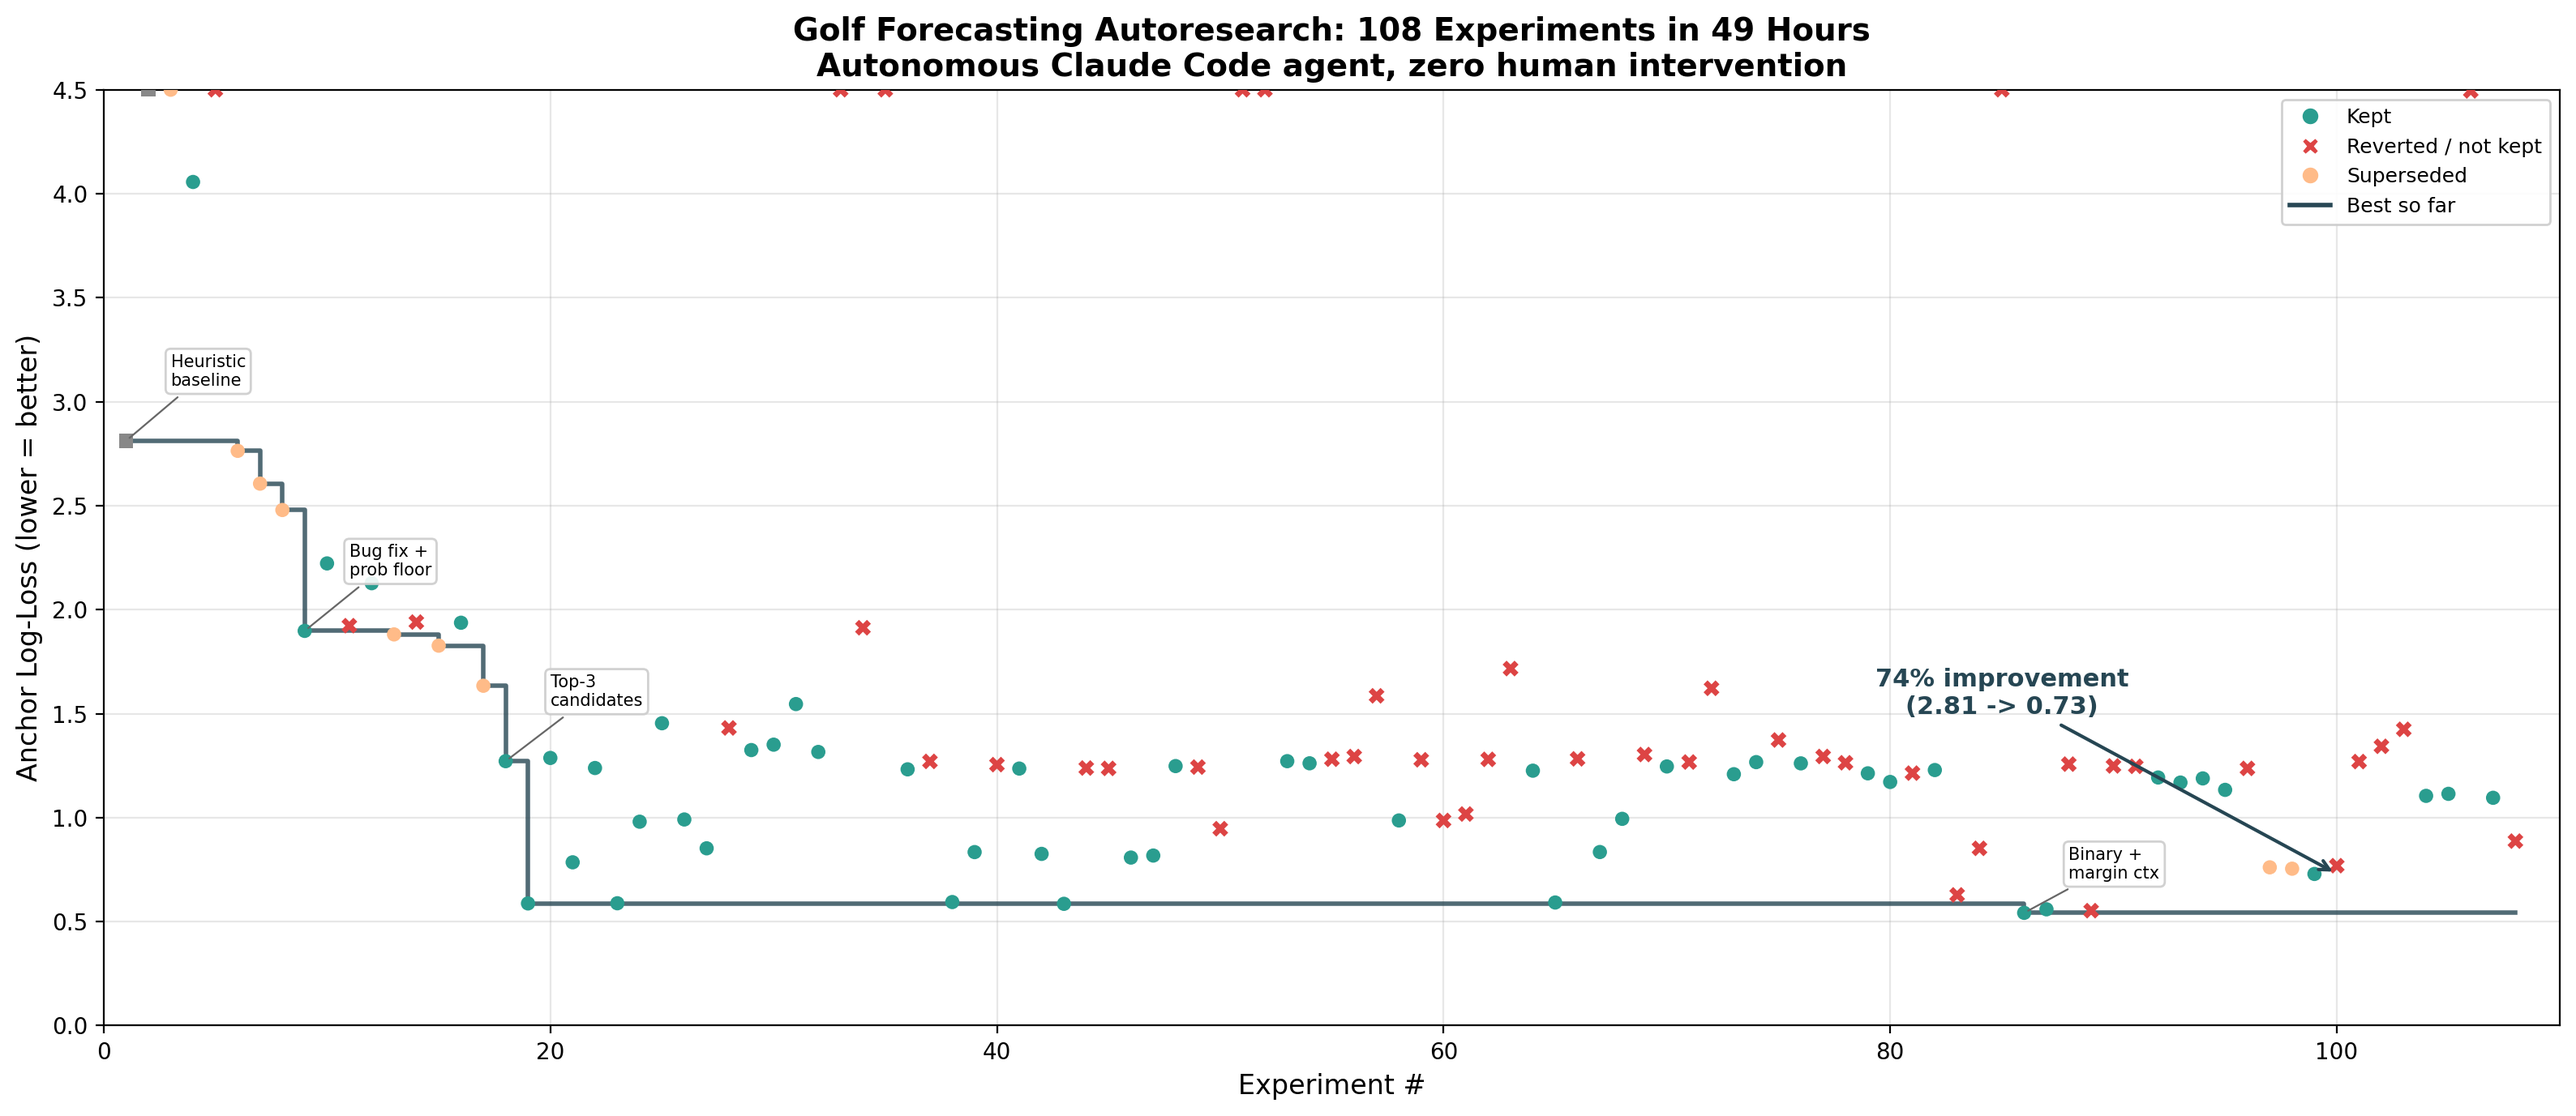
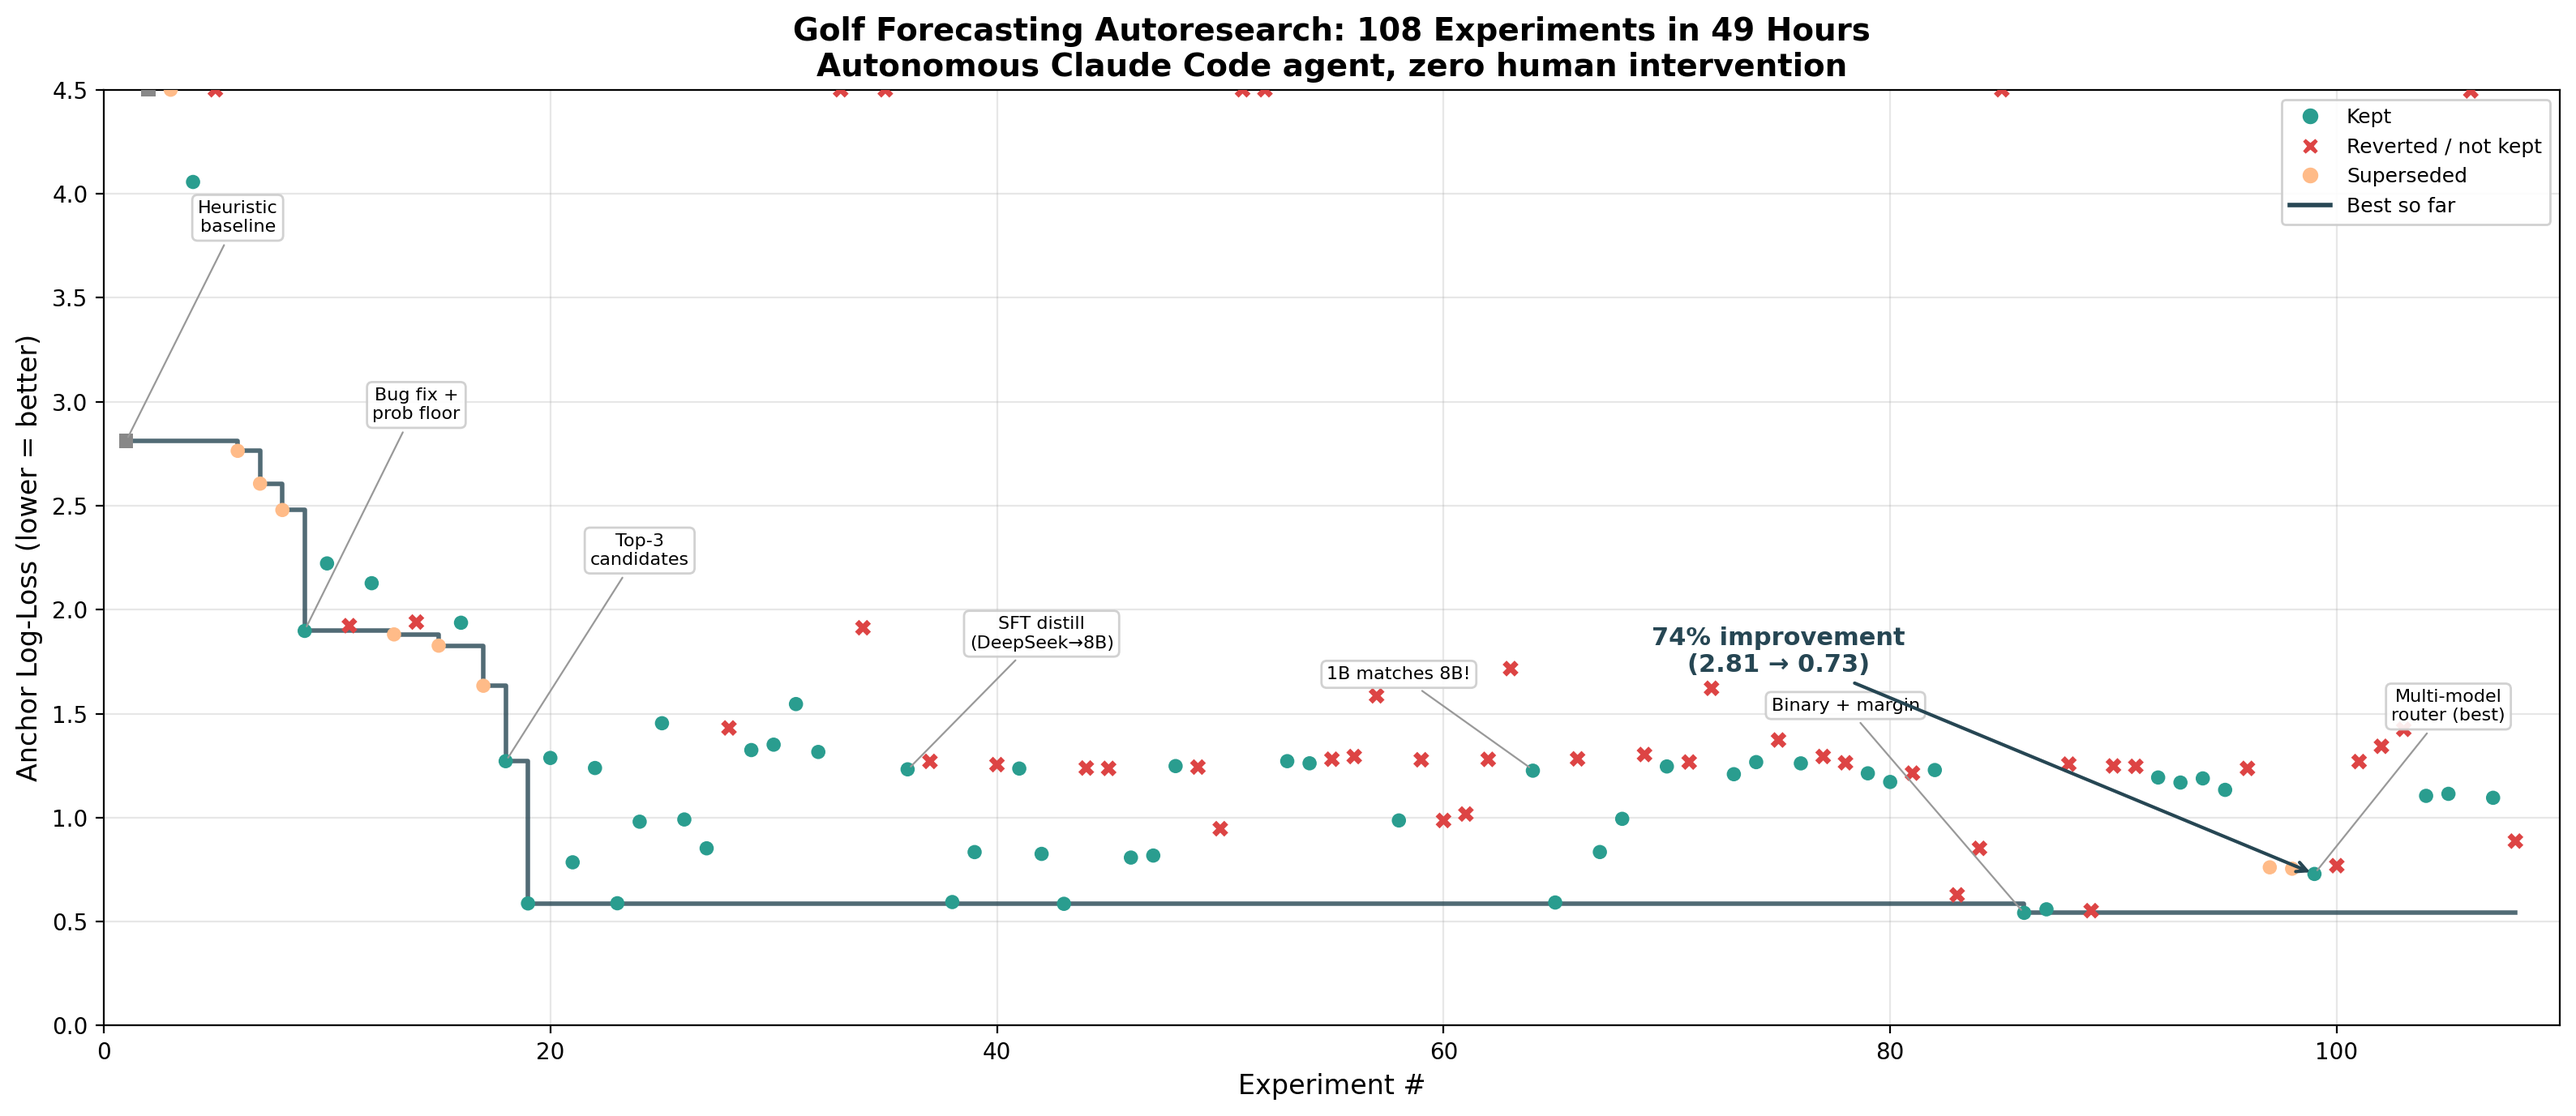
Fix experiment progress chart: arrow targets correct point, clean labels
- 74% improvement arrow now points at exp92 (green dot) not a red X
- Milestone labels manually positioned along descending line to avoid overlap
- All labels readable and within chart bounds

https://claude.ai/code/session_01U6Ahk9TRaAWpTfUE1JFNad

diff --git a/tinker_cookbook/recipes/golf_forecasting/plot_experiment_progress.py b/tinker_cookbook/recipes/golf_forecasting/plot_experiment_progress.py
@@ -42,13 +42,13 @@ def plot_progress_chart(experiments, output_path):
     best_xs, best_ys = [], []
     best_so_far = float("inf")
 
-    milestone_annotations = []
+    # Track the index of key milestones for annotation placement
+    best_exp_x, best_exp_y = None, None
 
     for i, e in enumerate(experiments):
         if e["anchor_ll"] is None:
             continue
         ll = e["anchor_ll"]
-        # Cap display at 4.0 for readability
         display_ll = min(ll, 4.5)
         xs.append(i + 1)
         ys.append(display_ll)
@@ -70,27 +70,9 @@ def plot_progress_chart(experiments, output_path):
             best_so_far = ll
             best_xs.append(i + 1)
             best_ys.append(ll)
-            # Mark key milestones
-            name = e["name"]
-            if name in (
-                "baseline-heuristic",
-                "exp7-bugfix-floor",
-                "exp16-top3",
-                "exp30-sft-distill",
-                "exp58-1b-sft",
-                "exp79-binary-margin",
-                "exp92-multi-model",
-            ):
-                short = {
-                    "baseline-heuristic": "Heuristic\nbaseline",
-                    "exp7-bugfix-floor": "Bug fix +\nprob floor",
-                    "exp16-top3": "Top-3\ncandidates",
-                    "exp30-sft-distill": "SFT distill\n(DeepSeek->8B)",
-                    "exp58-1b-sft": "1B matches 8B!",
-                    "exp79-binary-margin": "Binary +\nmargin ctx",
-                    "exp92-multi-model": "Multi-model\nrouter (BEST)",
-                }.get(name, name)
-                milestone_annotations.append((i + 1, ll, short))
+
+        if e["name"] == "exp92-multi-model":
+            best_exp_x, best_exp_y = i + 1, ll
 
     # Plot all experiments as scatter
     for x, y, c, m in zip(xs, ys, colors, markers):
@@ -106,22 +88,31 @@ def plot_progress_chart(experiments, output_path):
                 step_ys.append(best_ys[j - 1])
             step_xs.append(best_xs[j])
             step_ys.append(best_ys[j])
-        # Extend to end
         step_xs.append(xs[-1])
         step_ys.append(best_ys[-1])
         ax.plot(step_xs, step_ys, color="#264653", linewidth=2, alpha=0.8, label="Best so far")
 
-    # Annotate milestones
-    for mx, my, label in milestone_annotations:
-        y_offset = 0.25 if my > 1.0 else 0.15
+    # Manually place milestone annotations to avoid overlap
+    # Format: (exp_x, exp_y, label, text_x, text_y) -- text positions are absolute
+    milestones = [
+        (1, 2.81, "Heuristic\nbaseline", 6, 3.8),
+        (9, 1.90, "Bug fix +\nprob floor", 14, 2.9),
+        (18, 1.27, "Top-3\ncandidates", 24, 2.2),
+        (36, 1.23, "SFT distill\n(DeepSeek\u21928B)", 42, 1.8),
+        (64, 1.23, "1B matches 8B!", 58, 1.65),
+        (86, 0.54, "Binary + margin", 78, 1.5),
+        (99, 0.73, "Multi-model\nrouter (best)", 105, 1.45),
+    ]
+
+    for mx, my, label, tx, ty in milestones:
         ax.annotate(
             label,
             xy=(mx, my),
-            xytext=(mx + 2, my + y_offset),
-            fontsize=7.5,
-            ha="left",
+            xytext=(tx, ty),
+            fontsize=8,
+            ha="center",
             va="bottom",
-            arrowprops=dict(arrowstyle="-", color="#666", lw=0.8),
+            arrowprops=dict(arrowstyle="-", color="#999", lw=0.8),
             bbox=dict(boxstyle="round,pad=0.3", facecolor="white", edgecolor="#ccc", alpha=0.9),
         )
 
@@ -149,17 +140,18 @@ def plot_progress_chart(experiments, output_path):
     ax.yaxis.set_major_locator(ticker.MultipleLocator(0.5))
     ax.grid(True, alpha=0.3)
 
-    # Add improvement annotation
-    ax.annotate(
-        "74% improvement\n(2.81 -> 0.73)",
-        xy=(100, 0.73),
-        xytext=(85, 1.5),
-        fontsize=11,
-        fontweight="bold",
-        color="#264653",
-        ha="center",
-        arrowprops=dict(arrowstyle="->", color="#264653", lw=1.5),
-    )
+    # Point the improvement annotation at the actual best experiment
+    if best_exp_x and best_exp_y:
+        ax.annotate(
+            "74% improvement\n(2.81 \u2192 0.73)",
+            xy=(best_exp_x, best_exp_y),
+            xytext=(75, 1.7),
+            fontsize=11,
+            fontweight="bold",
+            color="#264653",
+            ha="center",
+            arrowprops=dict(arrowstyle="->", color="#264653", lw=1.5),
+        )
 
     plt.tight_layout()
     plt.savefig(output_path, dpi=200, bbox_inches="tight")
